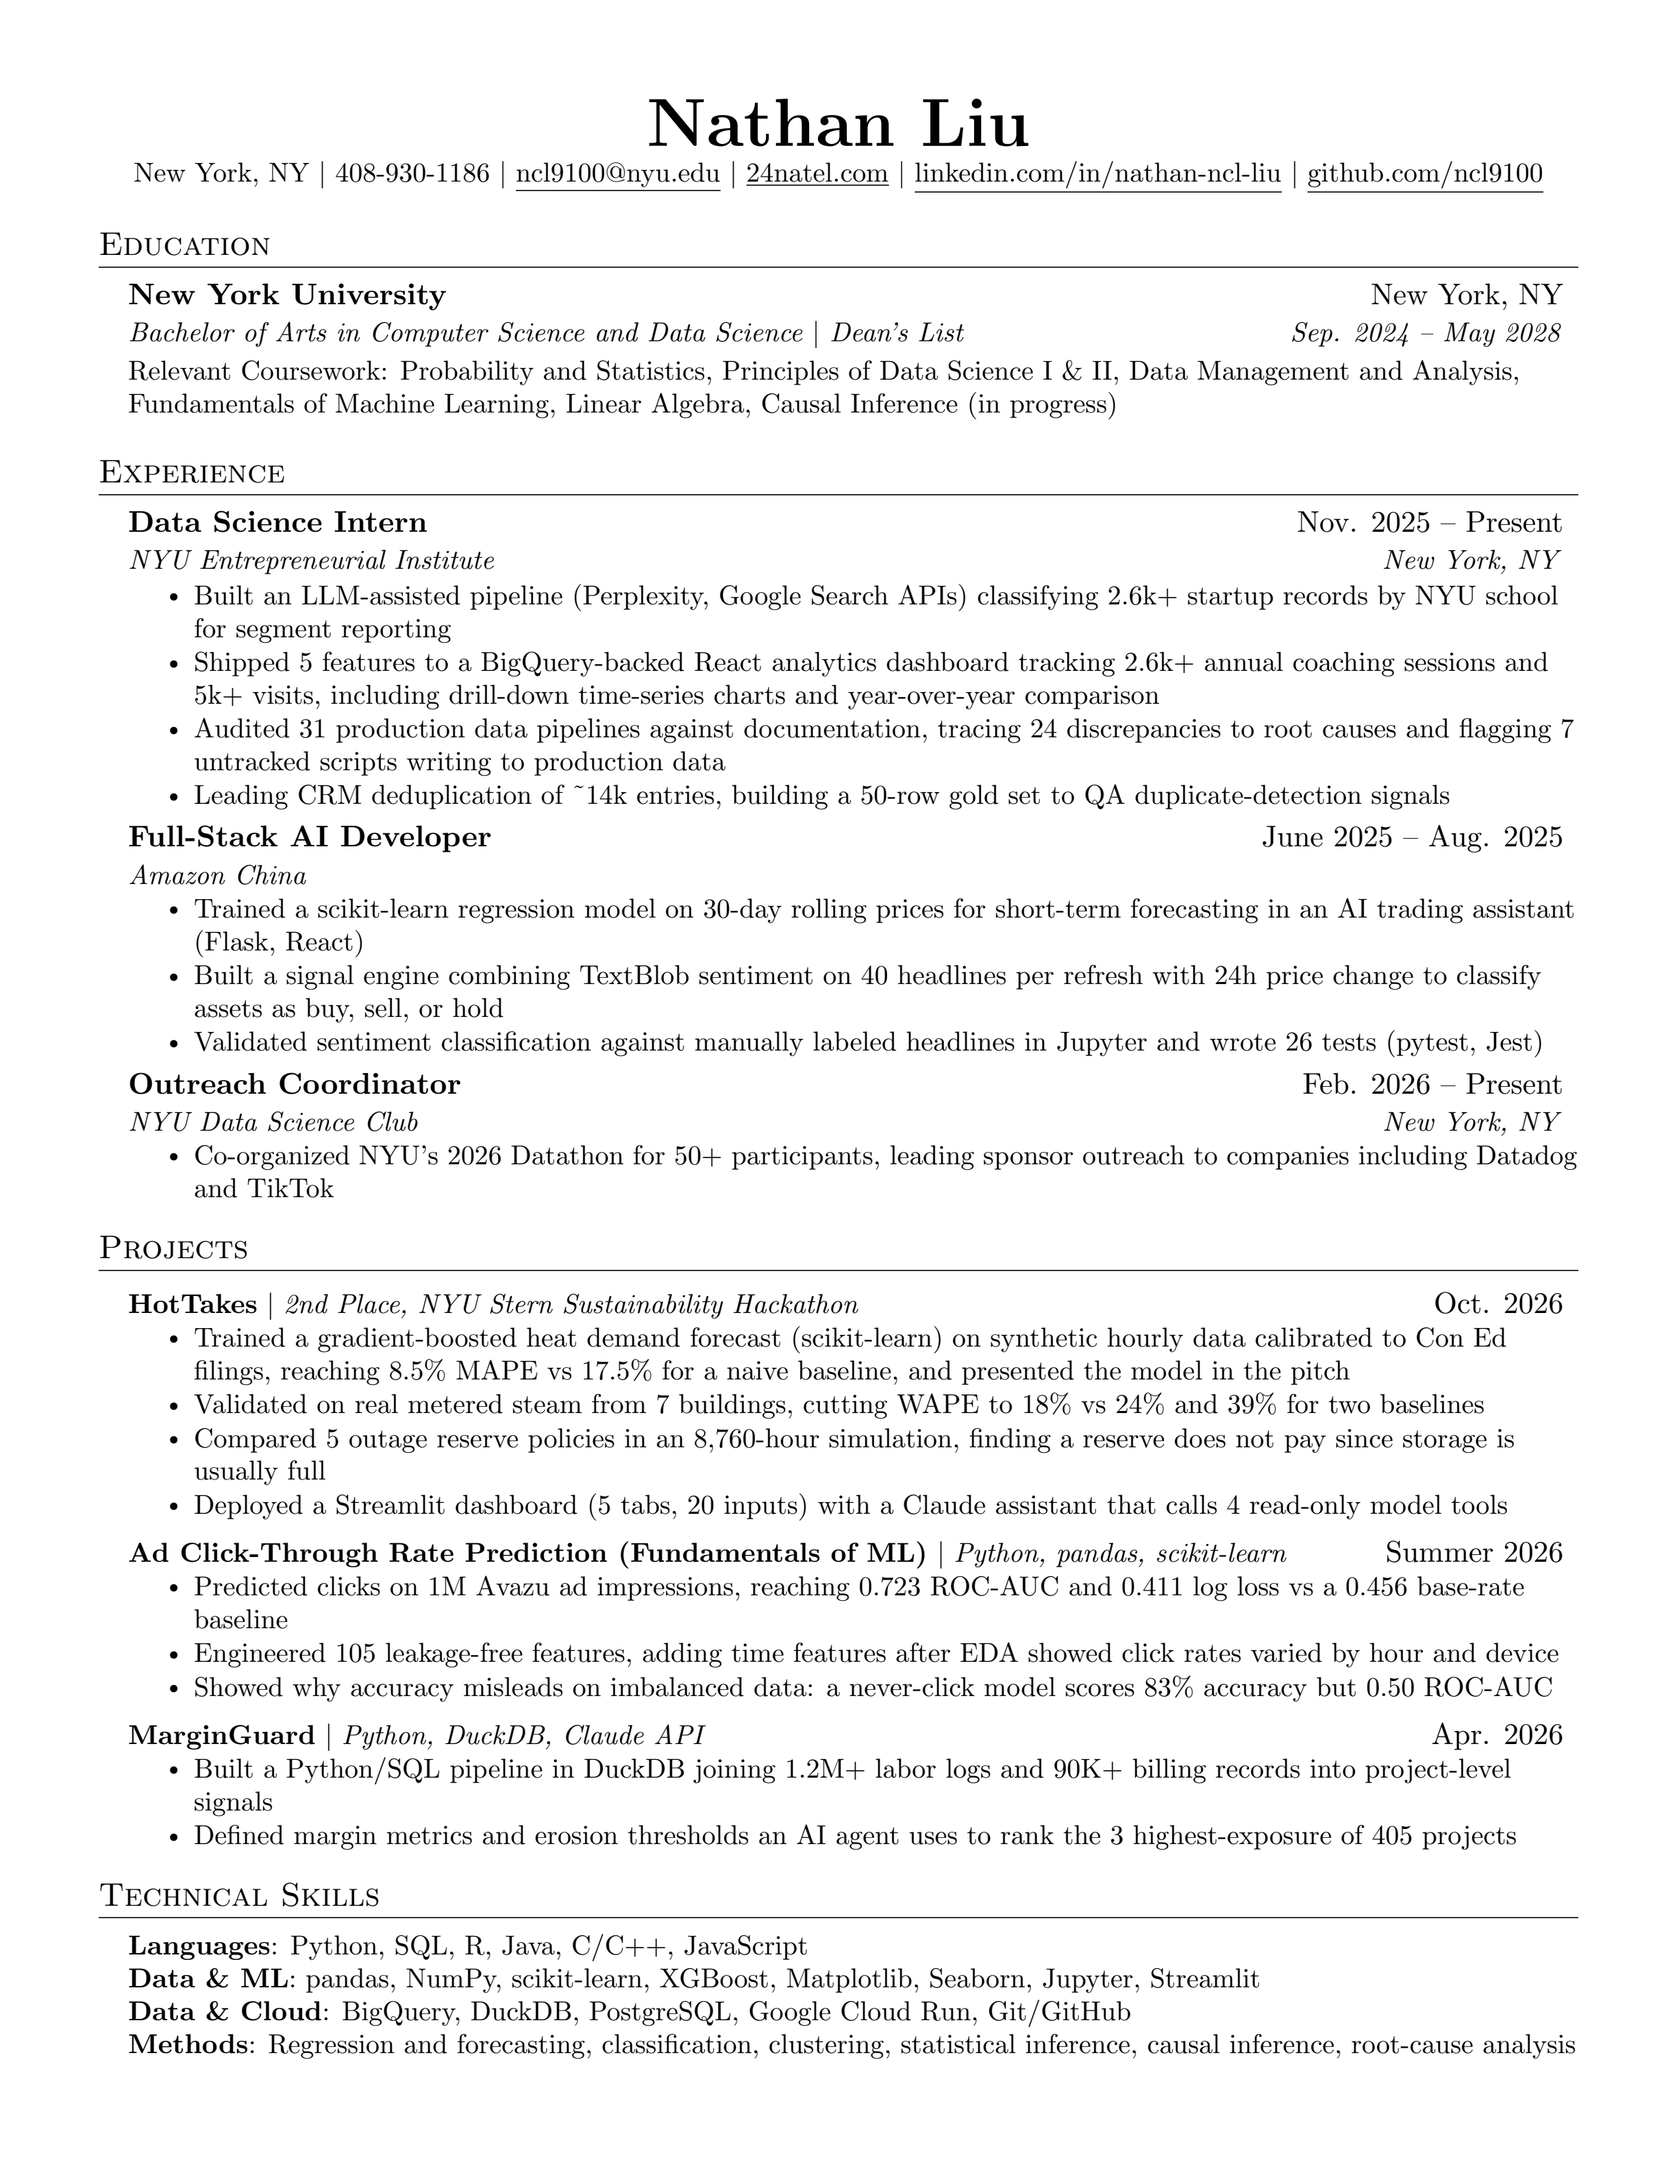
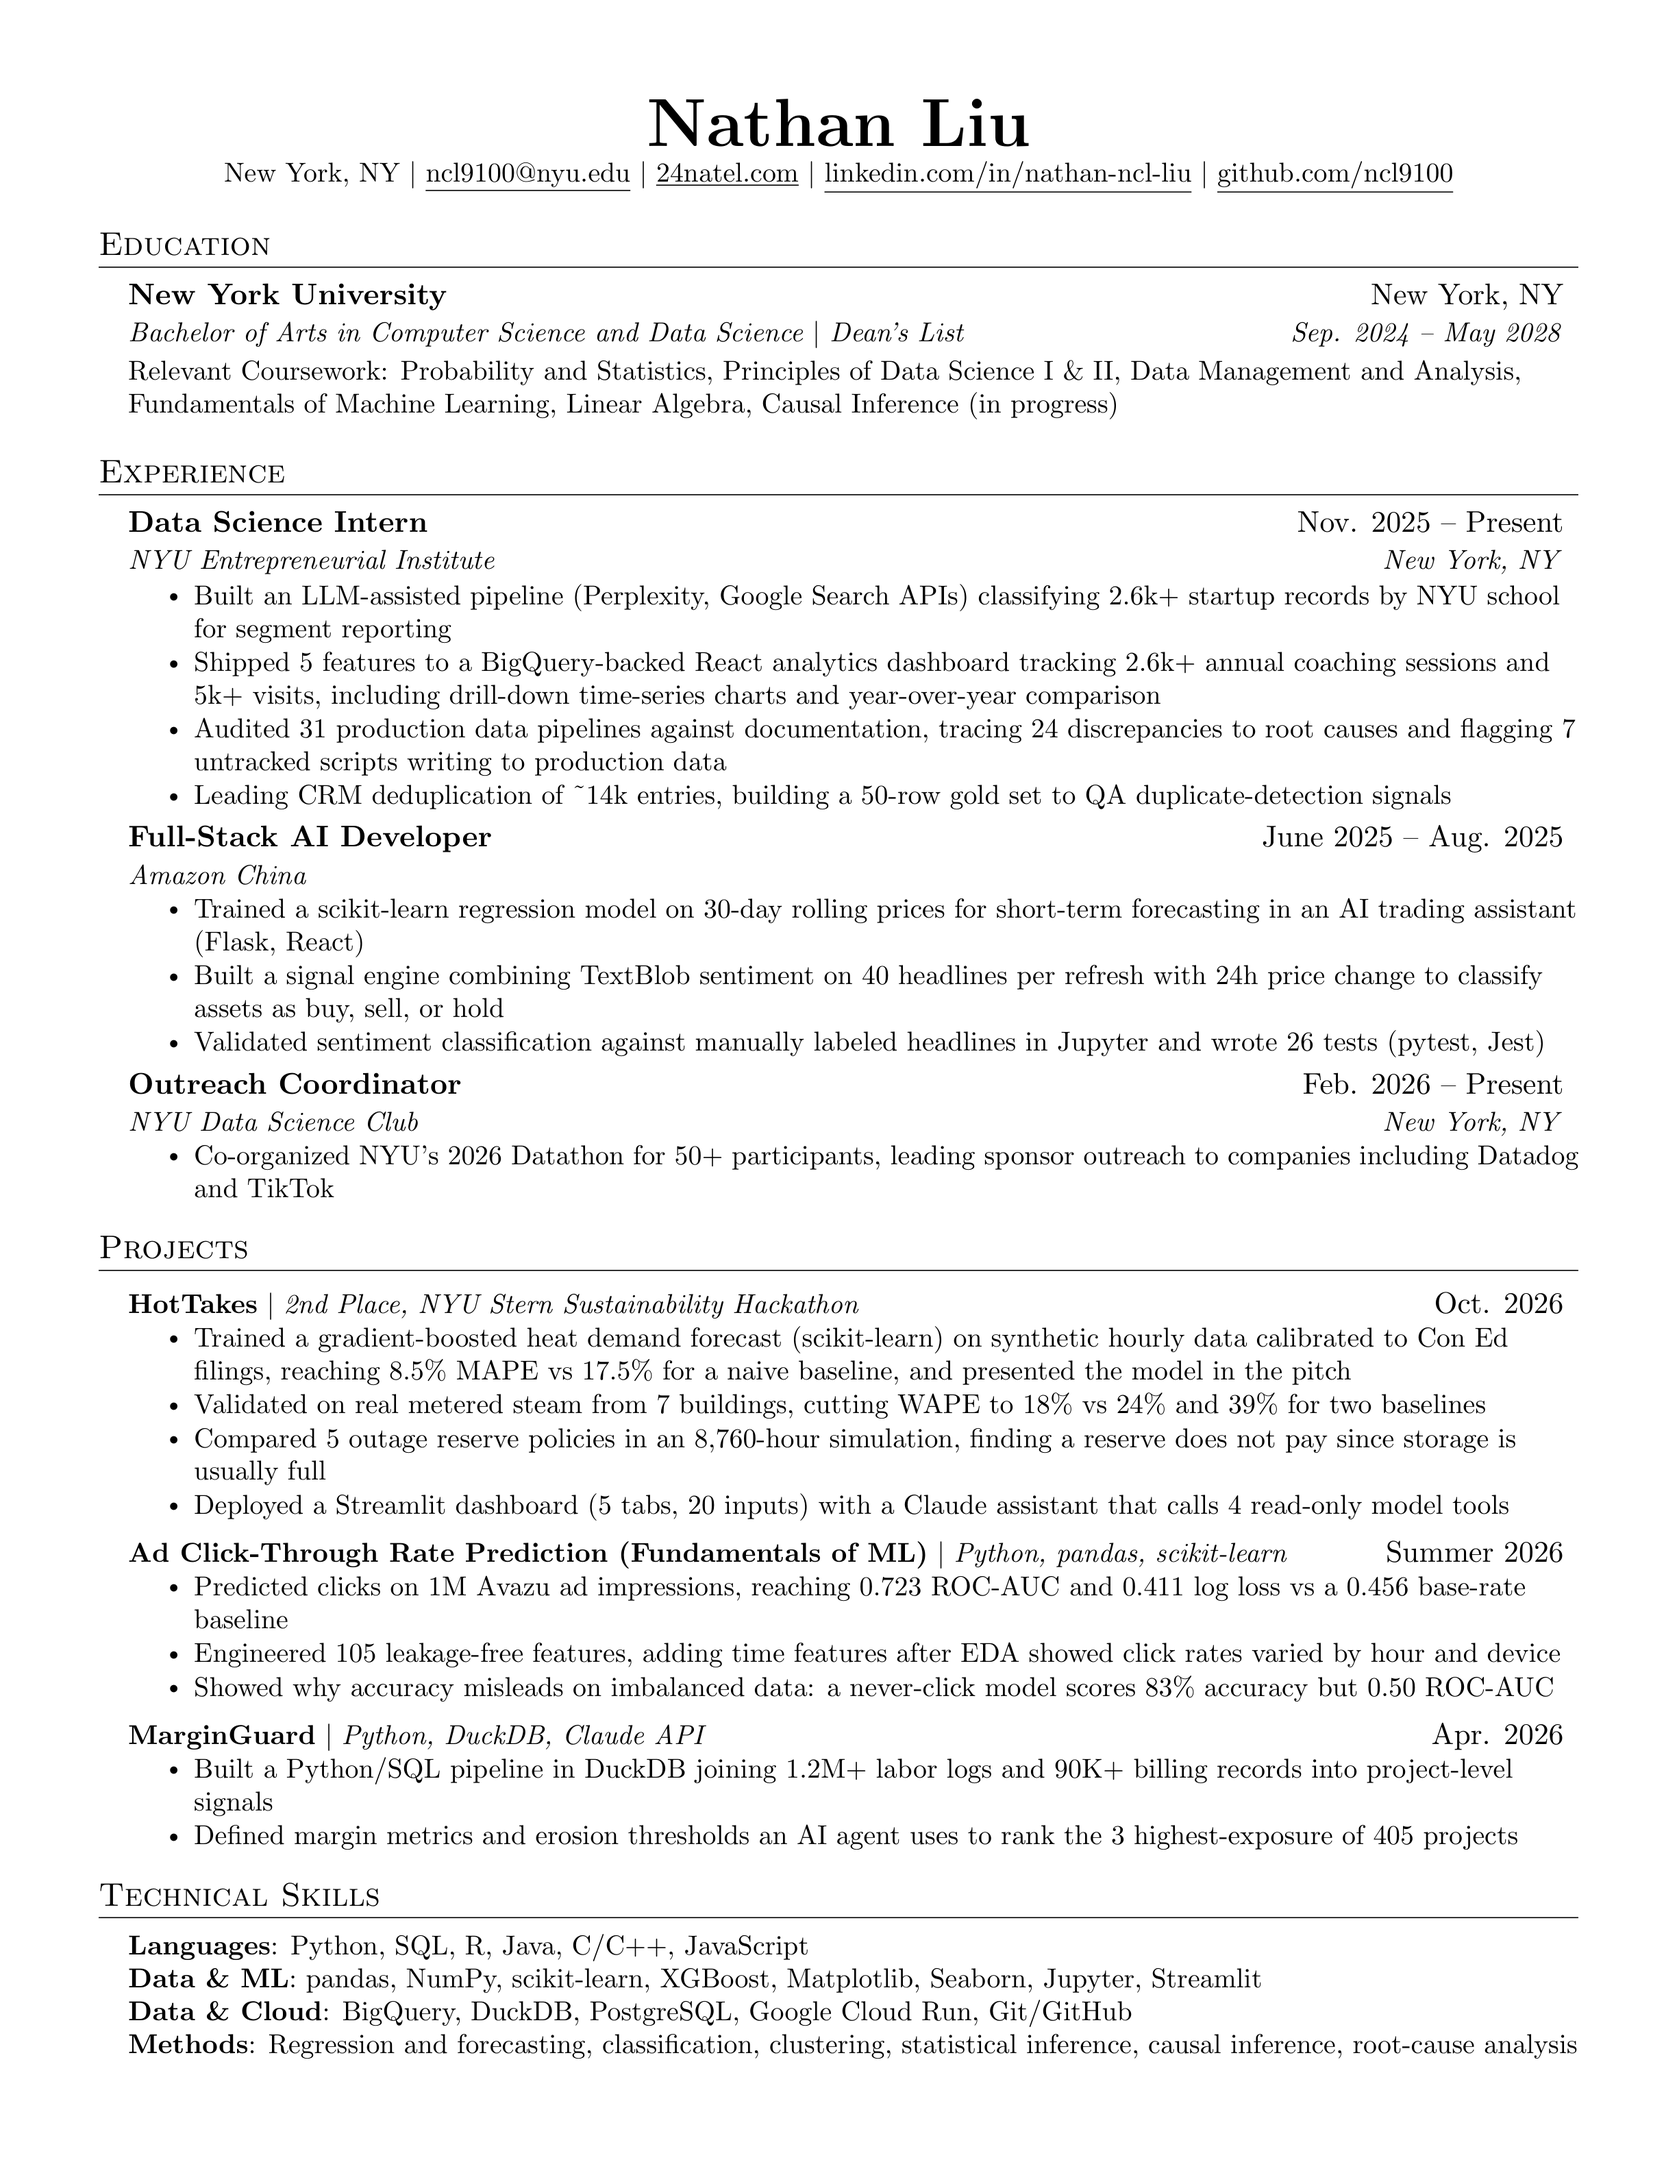
Keep the public resume free of a personal phone number.

diff --git a/assets/resume/resume.html b/assets/resume/resume.html
@@ -4,7 +4,7 @@
 <article class="resume-sheet" aria-label="Nathan Liu resume">
   <header class="r-heading">
     <h1>Nathan Liu</h1>
-    <p>New York, NY <span class="r-sep">|</span> 408-930-1186 <span class="r-sep">|</span>
+    <p>New York, NY <span class="r-sep">|</span>
       <a href="mailto:ncl9100@nyu.edu">ncl9100@nyu.edu</a> <span class="r-sep">|</span>
       <a href="https://24natel.com" target="_blank" rel="noopener">24natel.com</a> <span class="r-sep">|</span>
       <a href="https://www.linkedin.com/in/nathan-ncl-liu" target="_blank" rel="noopener">linkedin.com/in/nathan-ncl-liu</a> <span class="r-sep">|</span>
